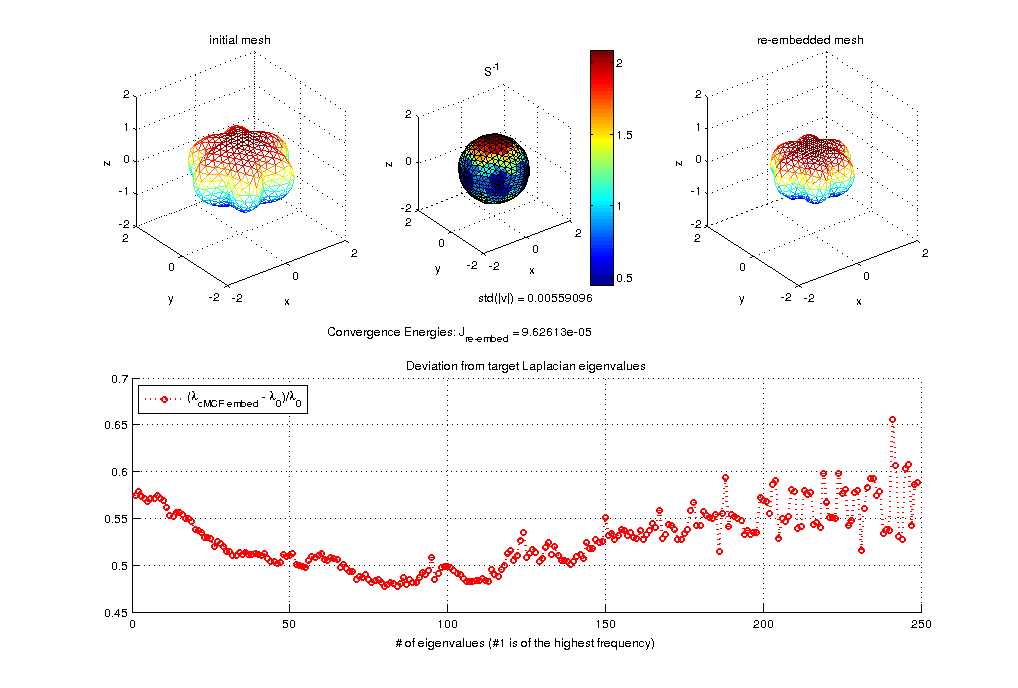
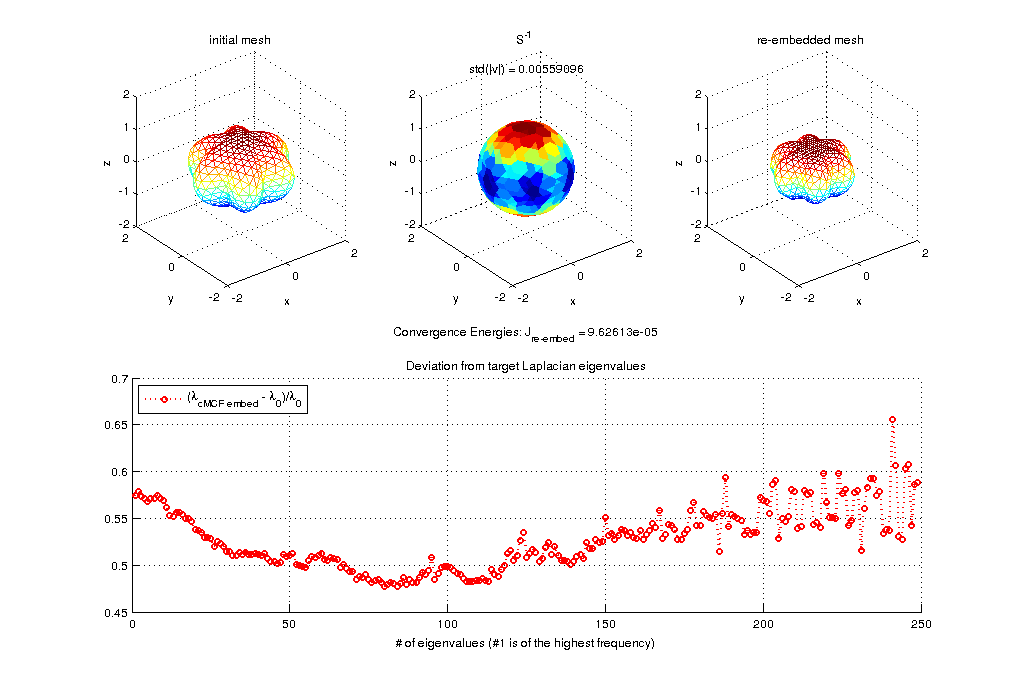
cMCF verified

diff --git a/analysis.m b/analysis.m
@@ -174,11 +174,12 @@ xlabel('x'); ylabel('y'); zlabel('z');
 title('initial mesh');
 
 subplot(2,3,2); hold all; view(3); grid on; axis equal
-trisurf(f,v0(:,1),v0(:,2),v0(:,3),s_T)
+trisurf(f,v0(:,1),v0(:,2),v0(:,3),s_T,'edgecolor','none')
 set(gca,'xlim',[-2 2],'ylim',[-2 2],'zlim',[-2 2]);
 xlabel('x'); ylabel('y'); zlabel('z');
-colorbar; title('S^{-1}');
-text(0,0,-3,num2str(std(vnorm(v0)),'std(|v|) = %g'));
+% colorbar;
+title('S^{-1}');
+text(0,2.5,2,num2str(std(vnorm(v0)),'std(|v|) = %g'));
 
 subplot(2,3,3); hold all; view(3); grid on; axis equal
 trimesh(f,v_c(:,1),v_c(:,2),v_c(:,3))
@@ -204,7 +205,7 @@ pause(.1);
 set(ax,'xlim',[0 numel(D_0)])
 xm = get(ax,'xlim');
 ym = get(ax,'ylim');
-text(floor(max(xm)/4),max(ym(2) + .18*diff(ym)),...
+text(floor(max(xm)/3),max(ym(2) + .18*diff(ym)),...
   num2str(Jc_hist(end),'Convergence Energies: J_{re-embed} = %g'));
 
 colormap('jet');
